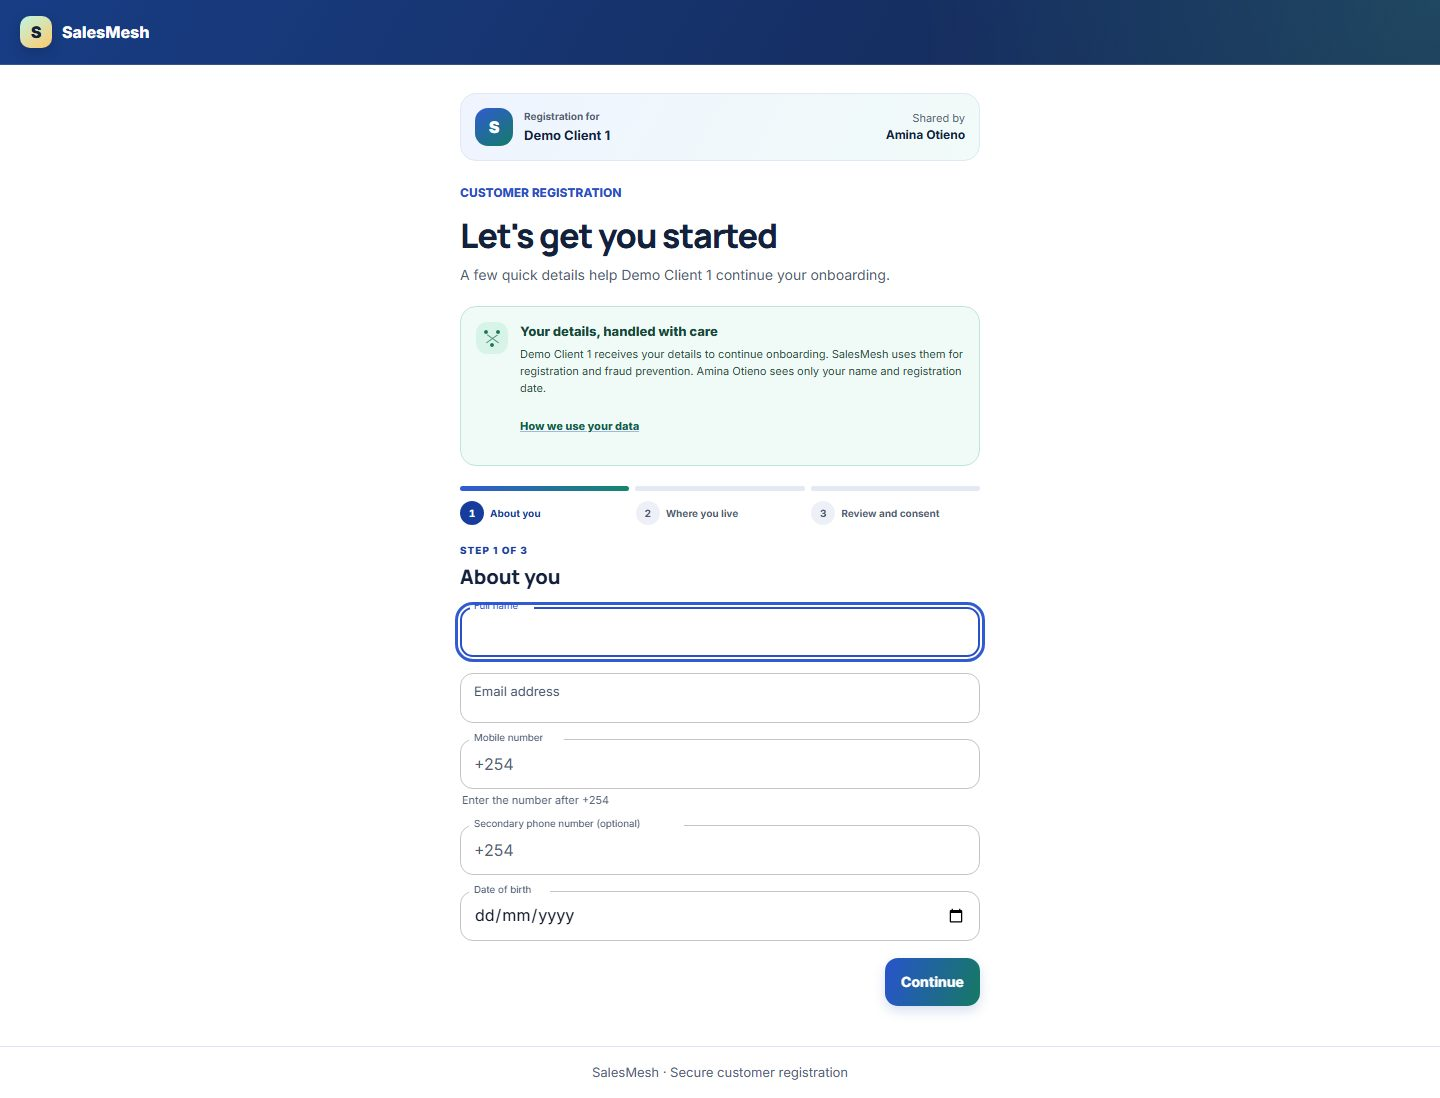
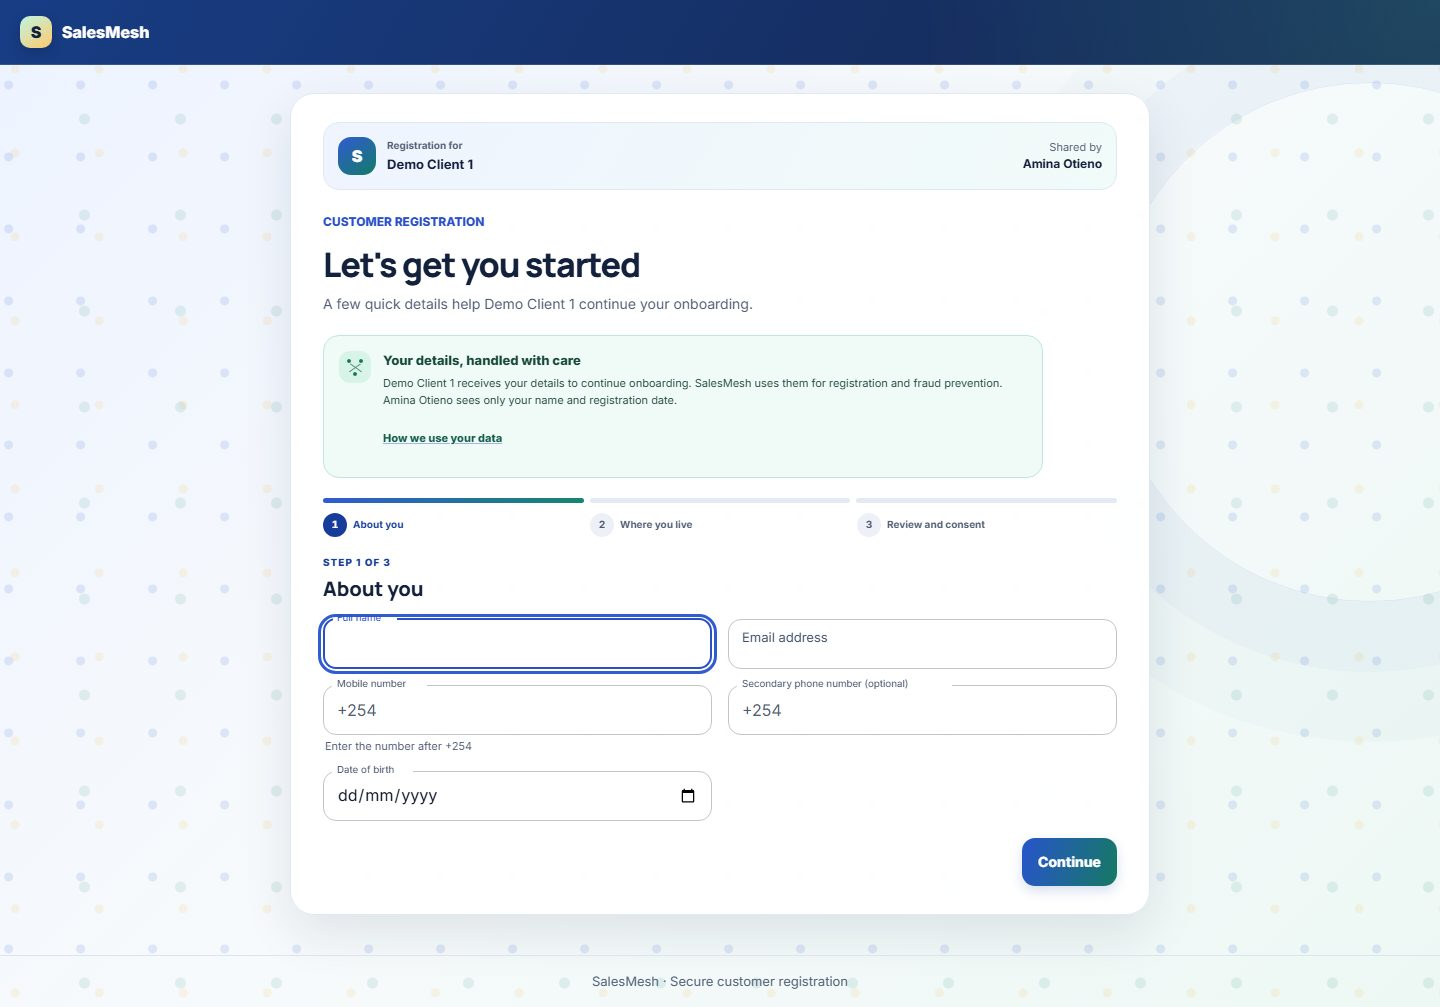
feat: widen join screen and add mesh background

diff --git a/frontend/src/styles.css b/frontend/src/styles.css
@@ -1134,6 +1134,52 @@ a:hover {
   padding: 28px 20px 40px;
 }
 
+.identity-public:has(.identity-join),
+.identity-public:has(.identity-join-success) {
+  position: relative;
+  isolation: isolate;
+  overflow: hidden;
+  background:
+    radial-gradient(
+      circle at 12% 18%,
+      rgb(42 85 212 / 12%) 0 4px,
+      transparent 5px
+    ),
+    radial-gradient(
+      circle at 88% 24%,
+      rgb(19 123 104 / 10%) 0 5px,
+      transparent 6px
+    ),
+    radial-gradient(
+      circle at 18% 82%,
+      rgb(245 184 75 / 13%) 0 4px,
+      transparent 5px
+    ),
+    linear-gradient(135deg, #edf3ff 0%, #f7fafc 48%, #edf8f4 100%);
+  background-size:
+    72px 72px,
+    96px 96px,
+    84px 84px,
+    auto;
+}
+
+.identity-public:has(.identity-join)::before,
+.identity-public:has(.identity-join-success)::before {
+  position: fixed;
+  z-index: -1;
+  top: 82px;
+  right: -190px;
+  width: 520px;
+  height: 520px;
+  border: 1px solid rgb(42 85 212 / 10%);
+  border-radius: 50%;
+  box-shadow:
+    0 0 0 70px rgb(42 85 212 / 3%),
+    0 0 0 140px rgb(19 123 104 / 2%);
+  content: "";
+  pointer-events: none;
+}
+
 .public-form {
   display: grid;
   gap: 16px;
@@ -2047,6 +2093,68 @@ a:hover {
 
 .identity-join {
   width: 100%;
+}
+
+@media (min-width: 681px) {
+  .identity-public:has(.identity-join) .public-main,
+  .identity-public:has(.identity-join-success) .public-main {
+    width: min(900px, calc(100% - 64px));
+  }
+
+  .identity-public:has(.identity-join) .identity-join,
+  .identity-public:has(.identity-join-success) .identity-join-success {
+    padding: 28px 32px;
+    background: rgb(255 255 255 / 96%);
+    border: 1px solid #dfe8f3;
+    border-radius: 24px;
+    box-shadow: 0 18px 50px rgb(20 33 61 / 10%);
+  }
+
+  .identity-join-brand {
+    margin-bottom: 20px;
+  }
+
+  .identity-join-heading {
+    max-width: 620px;
+  }
+
+  .identity-join-heading h1 {
+    font-size: 38px;
+  }
+
+  .identity-trust-card {
+    max-width: 720px;
+  }
+
+  .identity-join-progress,
+  .identity-join-step,
+  .identity-step-actions,
+  .identity-join-form {
+    max-width: 836px;
+  }
+
+  .identity-step-fields {
+    grid-template-columns: repeat(2, minmax(0, 1fr));
+  }
+
+  .identity-step-fields > :only-child,
+  .identity-review-card,
+  .identity-consent,
+  .identity-assisted-toggle {
+    grid-column: 1 / -1;
+  }
+
+  .identity-review-card {
+    grid-template-columns: repeat(3, minmax(0, 1fr));
+  }
+
+  .identity-review-card > div:nth-child(odd) {
+    border-right: 1px solid #e5eaf2;
+  }
+
+  .identity-review-card > div:nth-child(3n) {
+    border-right: 0;
+  }
 }
 
 .identity-join-brand {

diff --git a/docs/ui-redesign.md b/docs/ui-redesign.md
@@ -31,6 +31,12 @@ behavior remain in place. Other screens are unchanged until Step 2 is approved.
 | Motion              | Short card-hover and drawer transitions, and a 220 ms step fade/slide. `prefers-reduced-motion` suppresses identity motion and the global reduced-motion rule disables animations. Focus remains visible on new controls.                                                                       |
 | Responsive behavior | The existing table changes to cards on narrow screens. `/join` is mobile-first; the split sign-in panel becomes a stacked brand panel and form. The 360 px check remains in the browser accessibility suite.                                                                                    |
 
+The `/join` desktop canvas uses a wider 900 px white surface over the original
+mesh-dot and network-ring background. Step 1 and address fields use a two-column
+layout on desktop; the 360 px and 390 px layouts remain single-column. The
+creative background is CSS-only, contains no third-party artwork, and is hidden
+by the existing reduced-motion behavior through static presentation.
+
 Model probability was not rendered in the proposal: the Agents list and drawer
 have no per-registration probability in their existing API data. Adding or
 aggregating that value here would expand the contract and misrepresent an
